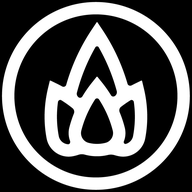
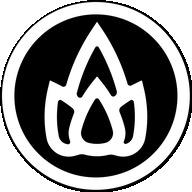
botao login pos instalacao e icone redondo sem fundo preto

diff --git a/src/pages/Instalar.jsx b/src/pages/Instalar.jsx
@@ -1,4 +1,5 @@
 import { useEffect, useState } from 'react'
+import { useNavigate } from 'react-router-dom'
 import { useBranding } from '../lib/useBranding'
 
 function detectDevice() {
@@ -43,6 +44,7 @@ function IconBox({ children }) {
 
 export default function Instalar() {
   const branding = useBranding()
+  const navigate = useNavigate()
   const [device, setDevice] = useState(null)
   const [installed, setInstalled] = useState(false)
   const [deferredPrompt, setDeferredPrompt] = useState(null)
@@ -79,9 +81,19 @@ export default function Instalar() {
             <div style={{ fontSize: 22, fontWeight: 800, color: '#1a1a2e', marginBottom: 8 }}>
               Instalado com sucesso!
             </div>
-            <div style={{ color: '#6b7280', fontSize: 15 }}>
+            <div style={{ color: '#6b7280', fontSize: 15, marginBottom: 28 }}>
               Procure o ícone na sua tela inicial e abra o app.
             </div>
+            <button
+              onClick={() => navigate('/login')}
+              style={{
+                width: '100%', padding: '14px', borderRadius: 10,
+                background: '#e2b04a', color: '#1a1a2e',
+                border: 'none', fontWeight: 800, fontSize: 16,
+                cursor: 'pointer',
+              }}>
+              Efetuar Login
+            </button>
           </div>
         </div>
       </div>
